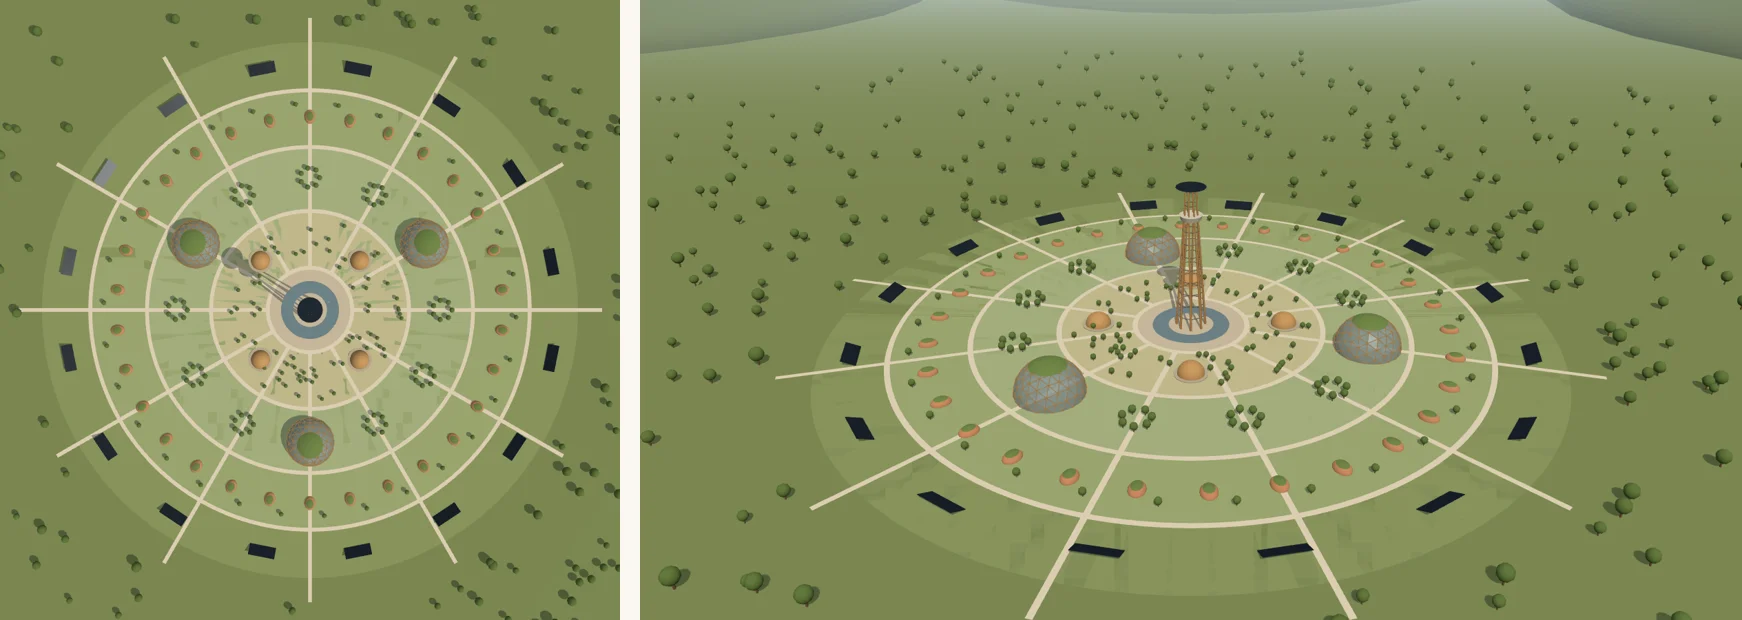
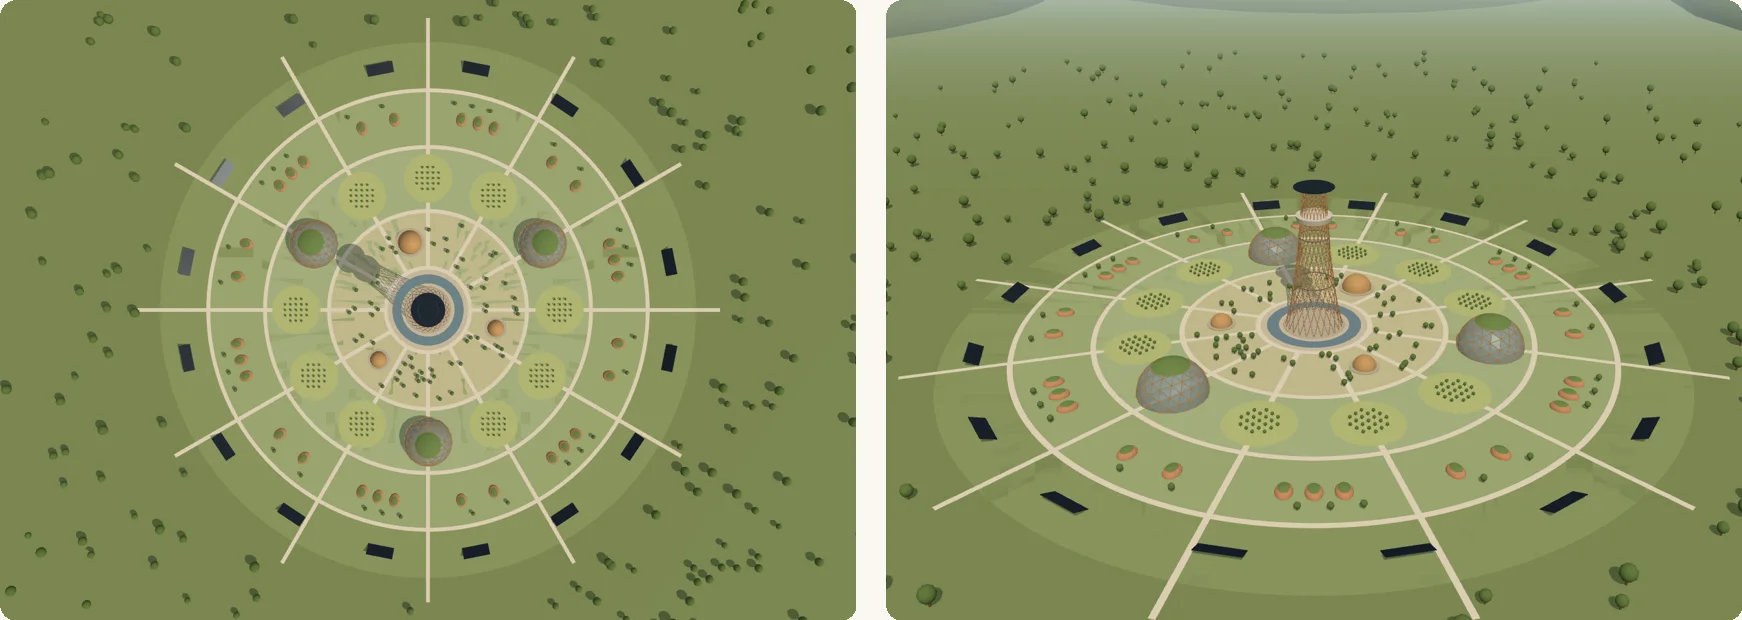
Apply build once, grow outward to the phase model, docs and images
Nothing built in one phase is removed in the next. In the 3D model:
- Ring 4 has 60 fixed home plots; Phase 1 builds 30, later phases infill.
- Reserved dome plots are meadow and tree nursery instead of orchards.
- Phase 3 keeps the village and its food and energy belt (now a green
  belt) and grows outside it; plan radius 1,000 m, about 1.2 sq mi.
- The spire is stacked lattice sections on one foundation sized for the
  final height (3, 5 and 8 sections), after the Shukhov Tower.

Docs: the rule in Architecture, Development Stages and At a Glance,
staged spire notes, and removal of a leftover light-art line. Phase
photos, plan sheet and Phase 1 model image regenerated from the model.

diff --git a/website/static/model/city.js b/website/static/model/city.js
@@ -6,24 +6,30 @@ import {OrbitControls} from './vendor/OrbitControls.js';
 
 // Three phases share one radial plan and grow outward from the same spire and plaza.
 // Phase facts: docs/at-a-glance.md (Scale by phase), docs/concepts/communospheres.md, docs/design/architecture.md.
+// Rule: build once, grow outward. Nothing built in one phase is removed in the next; later phases
+// fill reserved plots, add sections to the same spire and add rings outside the existing ones.
 export const PHASES = {
   1: {name: 'Phase 1 · Pilot hamlet', people: '200 residents', area: '20–30 acres',
-    spire: {height: 90, base: 9, top: 3.2, deck: 72},
+    spireSections: 3,
     inner: [[105, 10], [225, 7], [345, 7]],
     domes: [[30, 40], [150, 40], [270, 40]],
-    homes: 30, extent: 222, view: 1},
+    homes: 1, extent: 222, view: 1},
   2: {name: 'Phase 2 · Village', people: '1,500 residents', area: 'about 160 acres',
-    spire: {height: 150, base: 12, top: 3.6, deck: 120},
+    spireSections: 5,
     inner: [[105, 10], [225, 7], [345, 7], [45, 8], [165, 8], [285, 8]],
     domes: [[30, 40], [150, 40], [270, 40], [90, 52], [210, 52], [330, 52], [0, 52], [180, 52]],
-    homes: 48, clusters: [255, 315], belt: [360, 460], extent: 460, view: 1.9},
-  3: {name: 'Phase 3 · Town', people: '8,000+ residents', area: 'about 1 square mile',
-    spire: {height: 240, base: 17, top: 4, deck: 190},
+    homes: 2, clusters: [255, 315], belts: [[360, 460]], extent: 460, view: 1.9},
+  3: {name: 'Phase 3 · Town', people: '8,000+ residents', area: 'about 1.2 square miles',
+    spireSections: 8,
     inner: [[105, 10], [225, 7], [345, 7], [45, 8], [165, 8], [285, 8], [15, 7], [195, 7]],
     domes: [[30, 40], [150, 40], [270, 40], [90, 52], [210, 52], [330, 52], [0, 52], [180, 52], [60, 52], [120, 52], [240, 52], [300, 52]],
-    districts: {r: 455, d: 80, deg: [15, 75, 135, 195, 255, 315]},
-    homes: 60, terraces: [262, 325, 395, 520, 590], belt: [650, 910], extent: 910, view: 3.6},
+    districts: {r: 640, d: 80, deg: [30, 90, 150, 210, 270, 330]},
+    homes: 3, clusters: [255, 315], belts: [[360, 460], [760, 1000]], town: [460, 760], terraces: [510, 570, 710], extent: 1000, view: 3.9},
 };
+
+// Spire: stacked lattice sections on one foundation sized for the final height (after the Shukhov Tower).
+// Ring radii at every 30 m; Phase 1 builds 3 sections (90 m), Phase 2 five (150 m), Phase 3 eight (240 m).
+export const SPIRE = {section: 30, radii: [18, 12.5, 9.2, 7.2, 5.9, 5, 4.4, 3.9, 3.5], deck: 72};
 
 export const PLAN = {
   rings: [
@@ -56,9 +62,11 @@ export function buildCity(scene, phase = 1) {
   flat(new THREE.CircleGeometry(F.extent + 3600, 96), mat(0x7f8f58), 0);
 
   // Outer bands added by later phases (drawn first so the core sits on top)
-  if (F.belt) {
-    flat(new THREE.CircleGeometry(F.belt[1], 160), mat(0x8d9d64), 0.005);
-    flat(new THREE.CircleGeometry(F.belt[0], 160), mat(0x98ab72), 0.01);
+  // Bands outermost first: food and energy belts are darker, neighborhoods lighter
+  if (F.belts) {
+    const bands = [];
+    F.belts.forEach(([b0, b1]) => bands.push([b1, 0x8d9d64], [b0, 0x98ab72]));
+    bands.sort((x, y) => y[0] - x[0]).forEach(([r, c], i) => flat(new THREE.CircleGeometry(r, 200), mat(c), 0.004 + i * 0.002));
   }
 
   // Core ring bands, outermost first
@@ -68,7 +76,7 @@ export function buildCity(scene, phase = 1) {
   const path = mat(0xe6dcc6);
   const ringPath = (r, w = 3.2) => flat(new THREE.RingGeometry(r - w / 2, r + w / 2, Math.max(160, Math.round(r))), path, 0.15);
   P.rings.slice(0, 4).forEach((ring) => ringPath(ring.r));
-  if (F.belt) { ringPath(P.rings[4].r); ringPath(F.belt[0], 4); }
+  if (F.belts) { ringPath(P.rings[4].r); F.belts.forEach(([b0, b1]) => { ringPath(b0, 4); if (b1 < F.extent) ringPath(b1, 4); }); }
 
   // Radial paths: 12 from the plaza, plus 12 more in the town's outer rings
   const radial = (deg, r0, r1, w) => {
@@ -78,41 +86,46 @@ export function buildCity(scene, phase = 1) {
     const mid = polar(r0 + len / 2, deg);
     m.position.x = mid.x; m.position.z = mid.z;
   };
-  const edge = (F.belt ? F.belt[1] : P.rings[4].r) + 20;
+  const edge = F.extent + 20;
   for (let i = 0; i < P.radialPaths; i++) radial(i * 30, P.rings[0].r, edge, phase === 1 ? 3.2 : 4.5);
-  if (phase === 3) for (let i = 0; i < 12; i++) radial(15 + i * 30, 360, edge, 3.2);
+  if (F.town) for (let i = 0; i < 12; i++) radial(15 + i * 30, F.town[0], edge, 3.2);
 
   // Plaza: stone with a ring-shaped reflecting pool
   flat(new THREE.CircleGeometry(P.rings[0].r - 1.6, 96), mat(0xcfc3aa), 0.18);
-  const pool = flat(new THREE.RingGeometry(14, 24, 96), mat(0x7f9aa6, {roughness: 0.15, metalness: 0.2}), 0.22);
+  const pool = flat(new THREE.RingGeometry(22, 29.5, 96), mat(0x7f9aa6, {roughness: 0.15, metalness: 0.2}), 0.22);
   pool.receiveShadow = false;
 
-  // Spire: tapered steel and timber lattice with an observation deck and a solar crown.
-  // Later phases extend the same tower, so it widens at the base and grows taller.
-  const S = F.spire;
+  // Spire: stacked hyperboloid lattice sections of straight timber and steel members.
+  // The foundation, base and 72 m deck are built in Phase 1; later phases add sections and lift the solar crown.
   const timber = mat(0xb98a55, {roughness: 0.7});
   const steel = mat(0x8d8a84, {roughness: 0.5, metalness: 0.4});
-  const legW = S.height / 90;
-  for (let i = 0; i < 8; i++) {
-    const a = (i / 8) * Math.PI * 2;
-    const b = new THREE.Vector3(Math.cos(a) * S.base, 0, Math.sin(a) * S.base);
-    const t = new THREE.Vector3(Math.cos(a + 0.5) * S.top, S.height, Math.sin(a + 0.5) * S.top);
-    const leg = new THREE.Mesh(new THREE.CylinderGeometry(0.45 * legW, 0.7 * legW, b.distanceTo(t), 8), timber);
-    leg.position.copy(b.clone().add(t).multiplyScalar(0.5));
-    leg.quaternion.setFromUnitVectors(new THREE.Vector3(0, 1, 0), t.clone().sub(b).normalize());
-    leg.castShadow = true;
-    scene.add(leg);
+  const SP = SPIRE, nSec = F.spireSections, top = nSec * SP.section, legs = 24;
+  const rAt = (h) => { const k = Math.min(h / SP.section, SP.radii.length - 1.001), i = Math.floor(k); return SP.radii[i] + (SP.radii[i + 1] - SP.radii[i]) * (k - i); };
+  for (let sct = 0; sct < nSec; sct++) {
+    const h0 = sct * SP.section, h1 = h0 + SP.section, r0 = SP.radii[sct], r1 = SP.radii[sct + 1];
+    for (let i = 0; i < legs; i++) for (const dir of [1, -1]) {
+      const a = (i / legs) * Math.PI * 2, tw = dir * Math.PI / 5;
+      const b0 = new THREE.Vector3(Math.cos(a) * r0, h0, Math.sin(a) * r0);
+      const t1 = new THREE.Vector3(Math.cos(a + tw) * r1, h1, Math.sin(a + tw) * r1);
+      const leg = new THREE.Mesh(new THREE.CylinderGeometry(0.16, 0.2, b0.distanceTo(t1), 5), timber);
+      leg.position.copy(b0.clone().add(t1).multiplyScalar(0.5));
+      leg.quaternion.setFromUnitVectors(new THREE.Vector3(0, 1, 0), t1.clone().sub(b0).normalize());
+      leg.castShadow = true;
+      scene.add(leg);
+    }
+    for (const h of [h0, h1]) {
+      const ring = new THREE.Mesh(new THREE.TorusGeometry(rAt(h), 0.35, 6, 48), steel);
+      ring.rotation.x = Math.PI / 2; ring.position.y = h; scene.add(ring);
+    }
   }
-  for (let h = 8; h < S.height; h += 8) {
-    const ring = new THREE.Mesh(new THREE.TorusGeometry(S.base + (S.top - S.base) * (h / S.height), 0.25 * legW, 6, 32), steel);
-    ring.rotation.x = Math.PI / 2;
-    ring.position.y = h;
-    scene.add(ring);
-  }
-  const deck = new THREE.Mesh(new THREE.CylinderGeometry(7, 6, 3, 32), mat(0xd8cfbf));
-  deck.position.y = S.deck; deck.castShadow = true; scene.add(deck);
-  const crown = new THREE.Mesh(new THREE.CylinderGeometry(9, 4, 1.2, 32), mat(0x2c3a4a, {roughness: 0.3, metalness: 0.5}));
-  crown.position.y = S.height; crown.castShadow = true; scene.add(crown);
+  const foot = new THREE.Mesh(new THREE.CylinderGeometry(SP.radii[0] + 1, SP.radii[0] + 1.5, 0.8, 48), mat(0xbdb29c));
+  foot.position.y = 0.4; scene.add(foot);
+  const dr = rAt(SP.deck);
+  const deck = new THREE.Mesh(new THREE.CylinderGeometry(dr + 2.5, dr + 2, 3, 40), mat(0xd8cfbf));
+  deck.position.y = SP.deck; deck.castShadow = true; scene.add(deck);
+  const cr = rAt(top);
+  const crown = new THREE.Mesh(new THREE.CylinderGeometry(cr + 5, cr + 0.5, 1.2, 40), mat(0x2c3a4a, {roughness: 0.3, metalness: 0.5}));
+  crown.position.y = top; crown.castShadow = true; scene.add(crown);
 
   // Temple and learning pavilions (ring 2), between the radial paths. The first is the temple.
   const pavilion = (p, size, color = 0xc79a62) => {
@@ -145,10 +158,12 @@ export function buildCity(scene, phase = 1) {
   };
   const built = new Set(F.domes.map(([d]) => d));
   F.domes.forEach(([deg, d]) => dome(polar(P.domeRing, deg), d, d > 45 ? 0.8 : 1));
-  // Empty dome plots stay as orchards until a later phase
+  // Reserved dome plots: meadow and a tree nursery whose young trees are moved out when the dome is built
+  const meadow = mat(0xb9c27f);
   for (let deg = 0; deg < 360; deg += 30) if (!built.has(deg)) {
     const p = polar(P.domeRing, deg);
-    for (let k = 0; k < 7; k++) { const a = (k / 7) * Math.PI * 2; tree(p.x + Math.cos(a) * 8, p.z + Math.sin(a) * 8, 0.9); }
+    flat(new THREE.CircleGeometry(20, 40), meadow, 0.19).position.set(p.x, 0.19, p.z);
+    for (let x = -9; x <= 9; x += 4.5) for (let z = -9; z <= 9; z += 4.5) if (x * x + z * z < 110) tree(p.x + x, p.z + z, 0.4);
   }
 
   // Earth homes with green roofs (ring 4), between the radial paths
@@ -159,13 +174,15 @@ export function buildCity(scene, phase = 1) {
     const roof = new THREE.Mesh(new THREE.SphereGeometry(size + 0.15, 20, 6, 0, Math.PI * 2, 0, 0.7), capM);
     roof.scale.copy(h.scale); roof.rotation.copy(h.rotation); roof.position.copy(p); scene.add(roof);
   };
-  const offPath = (deg, gapDeg) => { const m = ((deg % 30) + 30) % 30; return m > gapDeg && m < 30 - gapDeg; };
-  for (let i = 0; i < F.homes; i++) {
-    const deg = (i + 0.5) * (360 / F.homes);
-    if (F.homes > 30 && !offPath(deg, 2.2)) continue;
-    earthHome(polar(P.homes.radius, deg), deg, P.homes.size);
-    const q = polar(P.homes.radius + 10, deg + 4); tree(q.x, q.z, 0.8);
+  // Fixed home plots: five per 30° sector. Phase 1 builds 30 of them, later phases fill the gaps; none move.
+  const homeSlots = [];
+  for (let sec = 0; sec < 12; sec++) {
+    homeSlots.push([sec * 30 + 10, 1], [sec * 30 + 20, 1], [sec * 30 + 15, sec % 2 ? 3 : 1], [sec * 30 + 5, 2], [sec * 30 + 25, 2]);
   }
+  homeSlots.filter(([, ph]) => ph <= F.homes).forEach(([deg]) => {
+    earthHome(polar(P.homes.radius, deg), deg, P.homes.size);
+    const q = polar(P.homes.radius + 12, deg + 2.5); tree(q.x, q.z, 0.7);
+  });
 
   // Solar arrays with meadow beneath (ring 5)
   const pv = mat(0x24313f, {roughness: 0.35, metalness: 0.4});
@@ -203,7 +220,7 @@ export function buildCity(scene, phase = 1) {
       for (let i = 0; i < n; i++) {
         const a0 = i * step + gap, a1 = (i + 1) * step - gap;
         const mid = (a0 + a1) / 2;
-        if (F.districts && Math.abs(r - F.districts.r) < 90 && F.districts.deg.some((d) => Math.abs(((mid - d + 540) % 360) - 180) < step)) continue;
+        if (F.districts && Math.abs(r - F.districts.r) < 100 && F.districts.deg.some((d) => Math.abs(((mid - d + 540) % 360) - 180) < step)) continue;
         const h = 7 + ((i + row) % 3) * 2.5;
         const shape = new THREE.Shape();
         const r0 = r - 8, r1 = r + 8;
@@ -228,8 +245,7 @@ export function buildCity(scene, phase = 1) {
   }
 
   // Food and energy belt: agrivoltaic arrays, solar greenhouses and food-forest rows by sector
-  if (F.belt) {
-    const [b0, b1] = F.belt;
+  (F.belts || []).forEach(([b0, b1]) => {
     const gh = mat(0xd6e2e4, {roughness: 0.2, metalness: 0.1, transparent: true, opacity: 0.8});
     const sectors = 24;
     for (let s = 0; s < sectors; s++) {
@@ -248,7 +264,7 @@ export function buildCity(scene, phase = 1) {
         }
       }
     }
-  }
+  });
 
   // Scattered trees in ring 2 and wild woodland beyond the city
   let seed = 7;

diff --git a/website/src/pages/city.tsx b/website/src/pages/city.tsx
@@ -46,7 +46,7 @@ export default function City(): JSX.Element {
           tag="TRL 4–5 at full scale"
           specs={[['Height', '60–120 m (Phase 1)'], ['Structure', 'Steel and CLT lattice'], ['Solar', '200–500 kWp integrated'], ['Role', 'Landmark, observation, energy']]}>
           <p>The spire is the city's orientation point: visible from every path by day, softly lit and shielded at night, and carrying building-integrated solar. Its first purpose is practical: a landmark, an observation deck, a communications mast and a solar collector.</p>
-          <p>Tall timber-hybrid towers exist today, but a lattice spire of this height with integrated solar has not been built, so it will be engineered and reviewed in Stage 2. Phase 2 could extend it to 120–300 m.</p>
+          <p>Tall timber-hybrid towers exist today, but a lattice spire of this height with integrated solar has not been built, so it will be engineered and reviewed in Stage 2. Its foundation and base are sized for the final height, so Phase 2 can add lattice sections on top (to 120–300 m) instead of rebuilding it, as the Shukhov Tower in Moscow was built from stacked sections.</p>
         </Feature>
         <Feature to="/docs/concepts/communospheres"
           reverse
@@ -103,11 +103,11 @@ export default function City(): JSX.Element {
         </Feature>
       </Section>
 
-      <Section alt id="phases" eyebrow="Growth by phase" title="Built in steps, each one proven before the next." lead="One radial plan grows outward from the same spire and plaza. Each phase has its own 3D model; open one to orbit it.">
+      <Section alt id="phases" eyebrow="Growth by phase" title="Built in steps, each one proven before the next." lead="One radial plan grows outward from the same spire and plaza, and nothing built in one phase is torn down in the next. Each phase has its own 3D model; open one to orbit it.">
         <Cards items={[
-          {to: 'pathname:///model/index.html?phase=1', more: 'Open the Phase 1 model', img: 'city-phase-1', alt: 'Aerial view of the Phase 1 pilot hamlet: a slender spire on a round plaza, three glazed domes, a ring of earth homes and solar arrays in meadow, surrounded by woodland', kicker: 'Phase 1 · 200 residents', title: 'Pilot hamlet', text: 'A 90 m spire, one temple and two learning pavilions, three 40 m domes and about 30 earth homes on a 20–30 acre core. Empty dome plots stay as orchards.'},
-          {to: 'pathname:///model/index.html?phase=2', more: 'Open the Phase 2 model', img: 'city-phase-2', alt: 'Aerial view of the Phase 2 village: eight domes around the spire, rings of earth-home courtyard clusters and an outer belt of solar rows and greenhouses', kicker: 'Phase 2 · 1,500 residents', title: 'Village', text: 'The spire is extended to 150 m, eight domes stand on the dome ring, courtyard clusters of earth homes form a new ring and a food and energy belt is added. About 160 acres.'},
-          {to: 'pathname:///model/index.html?phase=3', more: 'Open the Phase 3 model', img: 'city-phase-3', alt: 'Aerial view of the Phase 3 town: twelve domes around the spire, six large district domes, crescents of green-roofed timber terraces and a wide belt of solar and greenhouses', kicker: 'Phase 3 · 8,000+ residents', title: 'Town', text: 'A 240 m spire, twelve ring domes and six 80 m district domes, crescents of two-to-three storey timber terraces with green roofs and a wide food and energy belt. About one square mile.'},
+          {to: 'pathname:///model/index.html?phase=1', more: 'Open the Phase 1 model', img: 'city-phase-1', alt: 'Aerial view of the Phase 1 pilot hamlet: a slender spire on a round plaza, three glazed domes, a ring of earth homes and solar arrays in meadow, surrounded by woodland', kicker: 'Phase 1 · 200 residents', title: 'Pilot hamlet', text: 'A 90 m spire, one temple and two learning pavilions, three 40 m domes and about 30 earth homes on a 20–30 acre core. Reserved dome plots hold meadow and a tree nursery.'},
+          {to: 'pathname:///model/index.html?phase=2', more: 'Open the Phase 2 model', img: 'city-phase-2', alt: 'Aerial view of the Phase 2 village: eight domes around the spire, rings of earth-home courtyard clusters and an outer belt of solar rows and greenhouses', kicker: 'Phase 2 · 1,500 residents', title: 'Village', text: 'Everything from Phase 1 stays. The spire gains two sections (150 m), five domes fill reserved plots, courtyard clusters of earth homes form a new ring and a food and energy belt is added. About 160 acres.'},
+          {to: 'pathname:///model/index.html?phase=3', more: 'Open the Phase 3 model', img: 'city-phase-3', alt: 'Aerial view of the Phase 3 town: twelve domes around the spire, six large district domes, crescents of green-roofed timber terraces and a wide belt of solar and greenhouses', kicker: 'Phase 3 · 8,000+ residents', title: 'Town', text: 'The village and its belt stay as built. The spire reaches 240 m and the last ring domes are filled; outside the green belt come timber terraces with green roofs, six 80 m district domes and a new outer belt. About 1.2 square miles.'},
         ]} />
         <div className="pg-table-wrap">
           <table className="pg-table">

diff --git a/website/static/model/index.html b/website/static/model/index.html
@@ -27,10 +27,11 @@
   const q = new URLSearchParams(location.search);
   const phase = [1, 2, 3].includes(+q.get('phase')) ? +q.get('phase') : 1;
   const NOTES = {
-    1: 'Phase 1, pilot hamlet: 200 residents on a 20–30 acre core. A 90 m spire, one temple and two learning pavilions, three 40 m domes, 30 earth homes on ring 4 and solar on ring 5. Empty dome plots are orchards.',
-    2: 'Phase 2, village: about 1,500 residents on roughly 160 acres. The spire is extended to 150 m, six pavilions, eight domes (five new at 52 m), 48 homes on ring 4, a new ring of earth-home courtyard clusters and a food and energy belt with agrivoltaics, greenhouses and food forest.',
-    3: 'Phase 3, town: 8,000+ residents on about one square mile. A 240 m spire, eight pavilions, all twelve ring domes, six 80 m district domes each with a small temple, crescents of two-to-three storey timber terraces with green roofs and a wide food and energy belt. Schematic, not a final master plan.',
+    1: 'Phase 1, pilot hamlet: 200 residents on a 20–30 acre core. A 90 m spire of three lattice sections on a foundation built for the final height, one temple and two learning pavilions, three 40 m domes, 30 earth homes on ring 4 and solar on ring 5. Reserved dome plots are meadow and tree nursery.',
+    2: 'Phase 2, village: about 1,500 residents on roughly 160 acres. Everything from Phase 1 stays. The spire gains two sections (150 m), three more pavilions, five new 52 m domes on reserved plots, 24 more homes in the ring 4 gaps, a new ring of earth-home courtyard clusters and a food and energy belt.',
+    3: 'Phase 3, town: 8,000+ residents on about 1.2 square miles. The village and its food and energy belt stay as built, now a green belt. The spire reaches 240 m, the last four ring domes and two pavilions fill reserved plots, and outside the green belt come timber terraces with green roofs, six 80 m district domes and a new outer belt. Schematic, not a final master plan.',
   };
+
   document.getElementById('ttl').textContent = 'Light City, ' + PHASES[phase].name;
   document.getElementById('note').textContent = NOTES[phase] + ' Drag to orbit, scroll or pinch to zoom.';
   const pb = document.getElementById('phases');

diff --git a/website/docs/design/architecture.md b/website/docs/design/architecture.md
@@ -90,6 +90,14 @@ Connection across dimensions:
 
 The city grows in three phases from one radial plan. Each phase has its own interactive 3D model: [Phase 1](pathname:///model/index.html?phase=1), [Phase 2](pathname:///model/index.html?phase=2), [Phase 3](pathname:///model/index.html?phase=3). The spire, plaza, rings and 12 radial paths stay where they are; later phases fill the empty dome plots, extend the same spire and add rings outward.
 
+**Rule: build once, grow outward.** Nothing built in one phase is torn down in the next. Every phase has to work as a finished place on its own, in case the next one never comes.
+
+- **Reserved plots.** Dome plots, pavilion sites and home plots are fixed in Phase 1. Until they are built they hold meadow and a tree nursery, whose young trees are replanted elsewhere. Long-lived orchards and food forest go only in the permanent belts.
+- **Fill the gaps, then go outward.** Ring 4 has 60 fixed home plots; Phase 1 builds 30 and later phases fill the gaps. New neighborhoods are added as new rings outside the existing ones, never on top of them.
+- **Belts are permanent.** The Phase 2 food and energy belt stays as a green belt between the village and the town; Phase 3 adds its own belt further out.
+- **One spire, built in sections.** The foundation, base and 72 m deck are sized for the final height in Phase 1. Later phases add lattice sections on top and lift the solar crown, the way the [Shukhov Tower](https://en.wikipedia.org/wiki/Shukhov_Tower) in Moscow was built from stacked sections lifted into place.
+- **Only movable things move.** Solar panels, greenhouses and nursery trees may be relocated. Buildings, paths, mature trees and soil are not.
+
 ![Top views of the three phase models side by side: the Phase 1 hamlet with three domes, the Phase 2 village with eight domes and courtyard homes, and the Phase 3 town with eighteen domes and timber terraces](/img/diagrams/model-phases.webp)
 
 *Top views of the three 3D models. Each panel is drawn at its own scale.*
@@ -102,7 +110,7 @@ The city grows in three phases from one radial plan. Each phase has its own inte
 - **Structures**: Central plaza, 1 temple, 3 communosphere domes, spire tower (60-120 m)
 - **Energy**: 2-5 MWp solar PV + 8-20 MWh storage
 - **Food**: 1-2 ha agroforestry, supplemented by external sources
-- **In the model**: 90 m spire, one temple and two learning pavilions, three 40 m domes, 30 earth homes on ring 4, solar on ring 5; plan radius 222 m
+- **In the model**: 90 m spire (three lattice sections on a base built for 240 m), one temple and two learning pavilions, three 40 m domes, 30 earth homes on ring 4, solar on ring 5, reserved plots as meadow and nursery; plan radius 222 m
 
 ![Aerial view of the Phase 2 village: eight domes around the spire, rings of earth-home courtyard clusters and an outer belt of solar rows and greenhouses](/img/home/city-phase-2.webp)
 
@@ -112,7 +120,7 @@ The city grows in three phases from one radial plan. Each phase has its own inte
 - **Structures**: Expanded plaza, 3-5 temples, 6-12 domes, taller spire (120-300 m)
 - **Energy**: 5-15 MWp solar + 40-80 MWh storage
 - **Food**: 5-10 ha food forests, approaching self-sufficiency
-- **In the model**: spire extended to 150 m, six pavilions (temples and learning), eight domes (five new at 52 m), 48 earth homes on ring 4, a new ring of courtyard clusters of six earth homes, and a food and energy belt of agrivoltaics, greenhouses and food forest; plan radius 460 m (about 160 acres)
+- **In the model**: everything from Phase 1 kept; spire extended to 150 m with two more sections, six pavilions (temples and learning), eight domes (five new at 52 m on reserved plots), 54 earth homes on ring 4, a new ring of courtyard clusters of six earth homes, and a food and energy belt of agrivoltaics, greenhouses and food forest; plan radius 460 m (about 160 acres)
 
 ![Aerial view of the Phase 3 town: twelve domes around the spire, six large district domes, crescents of green-roofed timber terraces and a wide belt of solar and greenhouses](/img/home/city-phase-3.webp)
 
@@ -122,7 +130,7 @@ The city grows in three phases from one radial plan. Each phase has its own inte
 - **Structures**: Full concentric ring layout with 12+ domes
 - **Energy**: 15-50 MWp distributed renewable + storage
 - **Food**: 20-50 ha regenerative agriculture
-- **In the model**: 240 m spire, eight pavilions, all twelve ring domes plus six 80 m district domes (each with a small temple and market green), crescents of two-to-three storey timber terraces with green roofs, and a wide food and energy belt; plan radius 910 m (about one square mile). This is schematic, not a final master plan.
+- **In the model**: the village and its food and energy belt kept as built, the belt now a green belt; spire extended to 240 m, eight pavilions, all twelve ring domes and 60 ring homes, then outside the green belt crescents of two-to-three storey timber terraces with green roofs, six 80 m district domes (each with a small temple and market green) and a new outer food and energy belt; plan radius 1,000 m (about 1.2 square miles). This is schematic, not a final master plan.
 
 **Note on Delphin Scale**: The 40,000-ft spire and 60,000-120,000 population represent the off-world reference model. Light City's terrestrial implementation follows the phased approach above.
 
@@ -203,13 +211,14 @@ The Delphin archetype from the channeled source material suggests these principl
 
 **Phase 1 (built in Stage 5, Dec 2028 – Nov 2031)**: 60-120 m light/acoustic tower
 - Feasible height range: 200-400 feet
+- Built as stacked lattice sections on a foundation and base sized for the final height, so later phases add sections instead of rebuilding (precedent: the [Shukhov Tower](https://en.wikipedia.org/wiki/Shukhov_Tower), 1922)
 - Primary functions: Lighting, acoustic resonance, ceremonial focus
 - PV canopy integrated at top (200-500 kWp)
 - Public observation deck
 - Wind chimes tuned to harmonic series
-- LED programmable light art visible for miles
+- Shielded, warm, downward lighting only; no light art or shows
 
-**Phase 2 (mid-2030s, after Phase 1 proves out)**: 120-300 m expanded tower
+**Phase 2 (mid-2030s, after Phase 1 proves out)**: 120-300 m, the same tower with sections added on top
 - Height range: 400-1,000 feet
 - Enhanced public access and ceremonial spaces
 - Expanded PV capacity (500 kWp - 2 MWp)

diff --git a/website/docs/design/visual-language.md b/website/docs/design/visual-language.md
@@ -20,14 +20,14 @@ This guide keeps every Light City image, diagram and page consistent and readabl
 
 ## 3D reference model
 
-Every illustration of the city as a whole starts from one shared 3D model, so the radial design never drifts. The model has three phases that grow from the same plan ([compared in Architecture](/docs/design/architecture#phased-development--scale)). Phase 1 shows the spire on a round plaza, five rings, 12 straight radial paths, one temple and two learning pavilions, three 40 m domes on ring 3, earth homes on ring 4 and solar with meadow on ring 5, inside wild land. Phase 2 (village) and Phase 3 (town) keep all of that and add domes, rings of homes and a food and energy belt outward.
+Every illustration of the city as a whole starts from one shared 3D model, so the radial design never drifts. The model has three phases that grow from the same plan ([compared in Architecture](/docs/design/architecture#phased-development--scale)). Phase 1 shows the spire on a round plaza, five rings, 12 straight radial paths, one temple and two learning pavilions, three 40 m domes on ring 3, earth homes on ring 4 and solar with meadow on ring 5, inside wild land. Phase 2 (village) and Phase 3 (town) keep all of that unchanged and add domes on reserved plots, sections on the same spire, and rings of homes and food and energy belts outward (build once, grow outward).
 
 ![3D reference model of the Phase 1 plan: top view and aerial view of the five rings and 12 radial paths](/img/diagrams/model-reference.webp)
 
 *The Phase 1 model, top and aerial views. Open the interactive model to orbit it: [Phase 1](pathname:///model/index.html?phase=1), [Phase 2](pathname:///model/index.html?phase=2), [Phase 3](pathname:///model/index.html?phase=3).*
 
 - **How to use it.** Pick the phase the image shows, then render the closest named view (aerial, top, low aerial, radial path, homes ring, plaza or solar ring) with `PHASE=1|2|3 node scripts/render-model.cjs <view>`. Give that render to the image tool as the layout reference, with the current photo as a style reference.
-- **Label the phase.** Any image of the whole city says which phase it shows, and must match that phase's model: three domes in Phase 1, eight in Phase 2, eighteen in Phase 3.
+- **Label the phase.** Any image of the whole city says which phase it shows, and must match that phase's model: three domes in Phase 1, eight in Phase 2, eighteen in Phase 3. The spire is a flared lattice of stacked sections: three in Phase 1, five in Phase 2, eight in Phase 3.
 - **What must match.** One central spire with a round deck and a solar ring at the top, rings and radial paths in the same places, domes only where the plan puts them, no extra towers or buildings outside the rings.
 - **Changing the plan.** Update `static/model/city.js` and the plan diagram together, then re-render the views and the affected images.
 

diff --git a/website/docs/at-a-glance.md b/website/docs/at-a-glance.md
@@ -32,6 +32,8 @@ Light City is a planned, regenerative community. It starts as a 200-person **pil
 | **Food** | 1–2 ha agroforestry + greenhouses | 5–10 ha, near self-sufficiency | Regional food system |
 | **Earliest start** | Construction Dec 2028; residents 2031 | After Phase 1 proves out (mid-2030s) | 2040s+ |
 
+**Build once, grow outward.** Each phase keeps everything built before it: later phases fill reserved plots, add sections to the same spire and add rings outside the existing ones. See [Architecture → Phased development & scale](/docs/design/architecture#phased-development--scale).
+
 **Land.** We are looking for a rural or semi-rural site of **100–500 acres**. That is enough for the Phase 1 core, agriculture, buffers and room to grow into Phase 2. The site must sit at least 350 ft (107 m) above sea level. Five candidate regions in four countries (northern New Mexico and southern Oregon in the US, central Portugal, the Granada highlands in Spain and northern Costa Rica) are compared in [Site Locations](/docs/project/site-locations).
 
 ## Signature structures

diff --git a/website/docs/project/development-stages.md b/website/docs/project/development-stages.md
@@ -501,6 +501,10 @@ Stage 1 has run longer than the original two-to-three-month plan and is still be
 - Serve as a living example and inspiration
 - Expand to Phase 2 (village) and Phase 3 (town)
 
+### Growth rule: build once, grow outward
+
+Each phase must work as a finished place on its own. Expansion fills plots reserved in Phase 1 and adds new rings outside the existing ones; nothing built earlier is demolished. The spire grows by adding sections to the Phase 1 tower, whose foundation is sized for the final height. Only movable assets such as solar panels, greenhouses and nursery trees are relocated. Details: [Architecture → Phased development & scale](/docs/design/architecture#phased-development--scale).
+
 ### Key Deliverables
 - [ ] Sustainable operations model (break-even or profitable)
 - [ ] Continuous improvement processes (kaizen, retrospectives)
